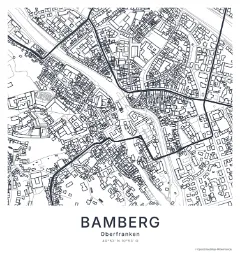
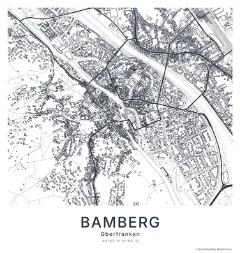
Start mit dem ganzen Ort, Detailstufen nach Maßstab und weiches Einblenden
- Suche zeigt die ganze Stadt bzw. das ganze Dorf (Ortsgrenze, Städte bis 10 km)
- Ganze Stadt mit groben, vereinfachten Kacheln; beim Hineinzoomen automatisch alle Häuser
- Neu geladene oder verschobene Kartenteile blenden weich ein statt aufzupoppen
- Stadtplan-Stil zeigt Gebäude zartgrau; Vorschaubilder erneuert

Claude-Session: https://claude.ai/code/session_01CZ9FFevJMjM4UX6hePPoaR

diff --git a/src/lib/editor/nachladen.js b/src/lib/editor/nachladen.js
@@ -6,7 +6,7 @@ import { app as appUntyped } from './app.js';
 import { fetchTiles } from '../karte/kacheln.js';
 import { buildDataTiles } from '../karte/daten.js';
 import { mercInv } from '../karte/raster.js';
-import { freiBereich, nachladbar, visRect } from './zustand.js';
+import { freiBereich, meterJeEinheit, nachladbar, visRect, zielStufe } from './zustand.js';
 import { FMAP, render } from './zeichnen.js';
 
 /** @type {any} */
@@ -44,6 +44,12 @@ async function lauf() {
 		h = v[3] - v[1];
 	const E = D.ext,
 		F = freiBereich(D);
+	// Passt die Detailstufe noch zum Maßstab? (hineingezoomt → feiner, herausgezoomt → gröber)
+	// (nur bei der gezeichneten Karte – Landkarten-Stile rechnet MapLibre selbst in jeder Stufe)
+	const S = app.S;
+	const gezeichnet = S && S.mode !== 'std' && (!S.motif || S.motif === 'karte');
+	const ziel = gezeichnet ? zielStufe(w * meterJeEinheit(D), D.tz || 14) : D.tz || 14;
+	if (ziel !== (D.tz || 14)) return stufeWechseln(D, ziel, v, w, h, F);
 	// fehlt im sichtbaren Bereich (mit kleinem Rand) etwas?
 	const rand = 0.15;
 	const fehlt = v[0] - w * rand < E.x0 - 1 || v[1] - h * rand < E.y0 - 1 || v[2] + w * rand > E.x1 + 1 || v[3] + h * rand > E.y1 + 1;
@@ -56,7 +62,7 @@ async function lauf() {
 	const [wl, n] = ll(r[0], r[1]),
 		[e, s] = ll(r[2], r[3]);
 	laeuft = true;
-	const zeigTimer = window.setTimeout(() => anzeige(true), 250);
+	const zeigTimer = window.setTimeout(() => anzeige(true), 200);
 	try {
 		const tiles = await fetchTiles({ w: wl, n, e, s }, { z: D.tz, ohne: new Set(D.tkeys) });
 		if (app.DATA !== D) return;
@@ -93,6 +99,52 @@ async function lauf() {
 		laeuft = false;
 	}
 	// weiter gezogen, während geladen wurde? → gleich noch einmal prüfen
+	nachladenPruefen();
+}
+
+/**
+ * Andere Detailstufe laden (wie Online-Karten beim Zoomen): ersetzt die Kartendaten durch Kacheln der
+ * passenden Stufe für die Ansicht plus Vorrat. Gleiche Projektion → der Ausschnitt bleibt exakt stehen.
+ * @param {any} D @param {number} z @param {number[]} v @param {number} w @param {number} h @param {any} F
+ */
+async function stufeWechseln(D, z, v, w, h, F) {
+	const r = [Math.max(F.x0, v[0] - w * 0.5), Math.max(F.y0, v[1] - h * 0.5), Math.min(F.x1, v[2] + w * 0.5), Math.min(F.y1, v[3] + h * 0.5)];
+	const P = D.proj;
+	const ll = (/** @type {number} */ x, /** @type {number} */ y) => mercInv(x / P.sc + P.x0, y / P.sc + P.y0);
+	const [wl, n] = ll(r[0], r[1]),
+		[e, s] = ll(r[2], r[3]);
+	laeuft = true;
+	const zeigTimer = window.setTimeout(() => anzeige(true), 200);
+	try {
+		const tiles = await fetchTiles({ w: wl, n, e, s }, { z });
+		await nichtBeimZiehen();
+		if (app.DATA !== D || !tiles.length) return;
+		const place = { name: D.place, region: D.region, center: D.center };
+		const nd = buildDataTiles(tiles, app.lastB, { w: wl, n, e, s }, place, { fid0: D.fidN, ti0: 0 });
+		if (!nd || !nd.feats.length) return;
+		D.feats = nd.feats;
+		D.tiles = nd.tiles;
+		D.tkeys = nd.tkeys;
+		D.tz = nd.tz;
+		D.fidN = nd.fidN;
+		if (nd.orte && nd.orte.length) D.orte = nd.orte;
+		D.ext = { x0: r[0], y0: r[1], x1: r[2], y1: r[3] };
+		// Dichte, Vorschaubild-Zähler, Höhenlinien gelten für die neue Stufe neu
+		D._dichte = null;
+		D.n0 = D.feats.length;
+		delete D._contours;
+		delete D._contoursP;
+		delete D._relief;
+		FMAP.clear();
+		app.einblenden = true;
+		render();
+	} catch (err) {
+		console.warn('Detailstufe wechseln fehlgeschlagen', err);
+	} finally {
+		clearTimeout(zeigTimer);
+		anzeige(false);
+		laeuft = false;
+	}
 	nachladenPruefen();
 }
 

diff --git a/src/lib/editor/zeichnen.js b/src/lib/editor/zeichnen.js
@@ -700,6 +700,7 @@ function vollNachZiehen() {
     fullTimer = window.setTimeout(vollNachZiehen, 120);
     return;
   }
+  app.einblenden = true;
   render();
 }
 /** Schriftbreite messen (Schriften sind im Dokument geladen) */
@@ -1161,12 +1162,18 @@ export function render() {
   const oldK = app.poster.querySelector('#karte');
   const oldHg = app.poster.querySelector('#treffer');
   // Schneller Weg nur bei gleichem Aufbau (eigene Kartenebene ja/nein)
-  if (oldK && M.node === before && oldK.contains(M.node) && oldK.dataset.ebene === (tmp.querySelector('#karte').dataset.ebene)) {
+  const gleich = !!oldK && oldK.dataset.ebene === (tmp.querySelector('#karte').dataset.ebene);
+  // Neu aufgebaute Karte nach Verschieben/Nachladen: über die alte legen und weich einblenden
+  // (wie Kacheln bei Online-Karten) – vorhandene Teile bleiben stehen, neue erscheinen sanft
+  const einblenden = app.einblenden;
+  app.einblenden = false;
+  const tausch = gleich && einblenden && M.node !== before && !!before && oldK.contains(before) && kartenEbene() && !matchMedia('(prefers-reduced-motion: reduce)').matches;
+  if (gleich && (M.node === before ? oldK.contains(M.node) : tausch)) {
     // Schneller Weg: Karte bleibt im Poster, nur alles drumherum wird ersetzt.
     // (Herausnehmen und Wiedereinsetzen würde den Browser zwingen, jedes Haus neu zu vermessen.)
     const newK = tmp.querySelector('#karte');
     let a = newK, b = oldK;
-    while (a && b && a.id !== 'kartenInhalt' && b !== M.node) {
+    while (a && b && a.id !== 'kartenInhalt' && b !== M.node && b !== before) {
       for (const at of [...a.attributes]) b.setAttribute(at.name, at.value);
       a = a.firstElementChild;
       b = b.firstElementChild;
@@ -1179,6 +1186,11 @@ export function render() {
     });
     oldK.insertAdjacentHTML('beforebegin', html(kids.slice(0, i)));
     (oldHg || oldK).insertAdjacentHTML('afterend', html(kids.slice(i + 1)));
+    if (M.node !== before) {
+      const alt = before;
+      alt.parentNode.appendChild(M.node);
+      M.node.animate([{ opacity: 0 }, { opacity: 1 }], { duration: 280, easing: 'cubic-bezier(.2,.8,.2,1)' }).finished.catch(() => {}).finally(() => alt.remove());
+    }
   } else {
     app.poster.innerHTML = tmp.innerHTML;
     const ph = app.poster.querySelector('#kartenInhalt');

diff --git a/src/lib/editor/zustand.js b/src/lib/editor/zustand.js
@@ -154,6 +154,24 @@ export function extZmin(v) {
   return Math.max(MW / (e.x1 - e.x0), MH / (e.y1 - e.y0)) * 1.0001;
 }
 /**
+ * Detailstufe der Kartendaten passend zum Maßstab (wie bei Online-Karten): Für eine ganze Stadt reichen
+ * die groben, schon vereinfachten Kacheln (Straßen, Wasser – ohne Einzelhäuser); beim Hineinzoomen
+ * kommen feinere Stufen mit allen Häusern und Wegen. Grenzen = sichtbare Breite in Metern.
+ */
+export const STUFE_GRENZE = { 13: 3200, 12: 7000 };
+/** Passende Kachel-Zoomstufe (12 grob … 14 fein) für eine sichtbare Breite in Metern */
+export function stufeFuer(m) {
+  return m > STUFE_GRENZE[12] ? 12 : m > STUFE_GRENZE[13] ? 13 : 14;
+}
+/** Wie stufeFuer, aber mit Spielraum um die Grenzen, damit nicht ständig hin und her gewechselt wird */
+export function zielStufe(m, tz) {
+  const ziel = stufeFuer(m);
+  if (ziel > tz) return stufeFuer(m / 0.85) > tz ? stufeFuer(m / 0.85) : tz;
+  if (ziel < tz) return stufeFuer(m / 1.15) < tz ? stufeFuer(m / 1.15) : tz;
+  return tz;
+}
+
+/**
  * Wie viele Kartenelemente dürfen höchstens gleichzeitig sichtbar sein? Darüber wird das Poster am
  * Bildschirm zäh (jede Linie ist ein eigenes Element) – und gedruckt ist es ohnehin nur noch Gewimmel.
  */
@@ -179,7 +197,12 @@ export function vLimits(v) {
     // Herauszoomen über die geladene Gegend hinaus: bis 3 × Posterbreite (max. 6 km) – lädt nach.
     // In dichten Städten weniger weit (höchstens ~17 000 Elemente sichtbar), nie aber enger als die geladene Gegend.
     const f = freiBereich();
-    const maxW = Math.max(MW / zmin, Math.min(MW * 3, 6000 / meterJeEinheit(), dichteBreite(v)));
+    const m = meterJeEinheit();
+    // Herauszoomen bis 12 km – in dichten Städten weniger. Weit genug aber immer, damit die nächst
+    // gröbere Detailstufe greifen kann (die hat dann wieder deutlich weniger Elemente).
+    const tz = app.DATA.tz || 14;
+    const stufeW = tz > 12 ? (STUFE_GRENZE[tz === 14 ? 13 : 12] * 1.3) / m : 0;
+    const maxW = Math.max(MW / zmin, Math.min(12000 / m, Math.max(dichteBreite(v), stufeW)));
     zmin = Math.max(MW / maxW, MW / (f.x1 - f.x0), MH / (f.y1 - f.y0)) * 1.0001;
   }
   return {

diff --git a/src/lib/editor/laden.js b/src/lib/editor/laden.js
@@ -11,7 +11,7 @@ import { FMAP, alsBild, drawSel, render } from './zeichnen.js';
 import { PRESETS } from '../themen/vorlagen.js';
 import { buildData, buildDataTiles } from '../karte/daten.js';
 import { closePicker, frameBounds, meters } from '../karte/ortswahl.js';
-import { defView, newState, updUndo } from './zustand.js';
+import { defView, newState, stufeFuer, updUndo } from './zustand.js';
 import { expand, fetchOSM } from '../karte/overpass.js';
 import { fetchTiles } from '../karte/kacheln.js';
 import { panel } from './seitenleiste.js';
@@ -90,7 +90,8 @@ export async function tileData(b, place) {
   const mw = meters(b).w;
   try {
     const big = expand(b, mw < 1500 ? 0.5 : mw < 3000 ? 0.35 : 0.2);
-    const tiles = await fetchTiles(big);
+    // Detailstufe passend zur Größe: ganze Stadt = grobe Kacheln (nur Straßen & Wasser), Ortskern = alle Häuser
+    const tiles = await fetchTiles(big, { z: stufeFuer(mw) });
     const data = buildDataTiles(tiles, b, big, place);
     return data.feats.length ? data : null;
   } catch (e) {
@@ -114,7 +115,7 @@ function loadErr(t) {
 export async function loadBounds(b, opt = {}) {
   if (app.genBusy) return false;
   const m = meters(b);
-  const maxW = opt.maxW || 6000;
+  const maxW = opt.maxW || 12000;
   if (!(m.w > 50) || m.w > maxW) {
     loadErr(`Der Ausschnitt ist zu groß (über ${Math.round(maxW / 1000)} km breit). Bitte näher heranzoomen.`);
     return false;

diff --git a/src/lib/themen/vorlagen.js b/src/lib/themen/vorlagen.js
@@ -6,19 +6,20 @@ export const NAVY = '#262c3a';
 export const PRESETS = {
   // Klarer Stadtplan nach dem Vorbild klassischer Kartenposter (z. B. Cartida): weißes Papier,
   // schwarze Straßen mit deutlicher Rangordnung, hellblaues Wasser, Grün nur angedeutet,
-  // Gebäude zunächst aus (unter Ort › Kartendetails zuschaltbar, dann zartgrau).
+  // Gebäude zartgrau und erst beim Hineinzoomen bzw. bei kleinen Orten sichtbar (Detailstufe).
   stadtplan: {
     name: 'Stadtplan',
     desc: 'Schwarze Straßen, hellblaues Wasser, viel Weiß – der klare Klassiker.',
     chip: 'linear-gradient(90deg,#fff 0 60%,#a9c4e2 60% 80%,#111 80%)',
     cls: {
-      haus: { s: '#c9cbcf', f: '#eceef0', w: 0.5, h: true },
+      // Gebäude zartgrau – bei der ganzen Stadt (grobe Daten) gibt es sie nicht, sie kommen beim Hineinzoomen
+      haus: { s: '#9fa4ab', f: '#dde0e4', w: 0.6 },
       haupt: { s: '#111111', f: 'none', w: 4.4 },
       neben: { s: '#1d1d1f', f: 'none', w: 1.5 },
       weg: { s: '#5a5d63', f: 'none', w: 0.55 },
       wasser: { s: '#a9c4e2', f: '#a9c4e2', w: 1.4 },
       bahn: { s: '#a4a7ad', f: 'none', w: 0.6 },
-      gruen: { s: 'none', f: '#f5f6f3', w: 0 }
+      gruen: { s: 'none', f: '#f7f8f5', w: 0 }
     },
     bg: '#ffffff',
     frame: { color: '#111111', w: 0, r: 0, pad: 34 },

diff --git a/src/lib/karte/ortswahl-start.js b/src/lib/karte/ortswahl-start.js
@@ -27,13 +27,14 @@ export function regionOf(p) {
 export function placeBounds(p, lon, lat, a, breite) {
   const small = /^(village|hamlet|suburb|neighbourhood|quarter|locality|isolated_dwelling|farm|house|street)$/.test(p.osm_value || p.type || '');
   const tiny = /^(hamlet|isolated_dwelling|farm|house|street|neighbourhood)$/.test(p.osm_value || p.type || '');
-  let wm = tiny ? 750 : 1100;
+  let wm = tiny ? 750 : small ? 1300 : 2500;
   const cos = Math.cos(lat * Math.PI / 180);
-  if (p.extent && !small) {
+  if (p.extent && !tiny) {
     const e = p.extent; // [west, nord, ost, süd]
     const ew = (e[2] - e[0]) * 111320 * cos, eh = (e[1] - e[3]) * 110540;
-    // Ortskern: etwas enger als die Gemeindegrenze
-    wm = Math.max(900, Math.min(2000, Math.max(ew, eh / a) * 0.6));
+    // Der ganze Ort aufs Poster (wie bei klassischen Stadtplan-Postern): Ortsgrenze mit etwas Luft,
+    // Dörfer höchstens 1,8 km, Großstädte höchstens 10 km (sonst nur noch Gewimmel)
+    wm = Math.max(small ? 900 : 1500, Math.min(small ? 1800 : 10000, Math.max(ew, eh / a) * (small ? 1.08 : 0.9)));
   }
   if (breite > 0) wm = breite;
   const [mx, my] = merc(lon, lat);

diff --git a/src/lib/karte/kacheln.js b/src/lib/karte/kacheln.js
@@ -170,9 +170,10 @@ export function lat2t(lat, z) {
 export async function fetchTiles(big, opt = {}) {
   const T = await tileTemplate();
   // Große Gebiete (z. B. lange Routen): gröbere Kachelstufe, sonst würden es hunderte Kacheln
-  let z = opt.z || T.maxz;
+  let z = Math.min(opt.z || T.maxz, T.maxz);
   const count = zz => (lon2t(big.e, zz) - lon2t(big.w, zz) + 1) * (lat2t(big.s, zz) - lat2t(big.n, zz) + 1);
-  if (!opt.z) while (z > 11 && count(z) > 100) z--;
+  // Beim Nachladen (opt.ohne) bleibt die Stufe fest – sie muss zu den schon geladenen Kacheln passen
+  if (!opt.ohne) while (z > 11 && count(z) > 100) z--;
   const x0 = lon2t(big.w, z),
     x1 = lon2t(big.e, z),
     y0 = lat2t(big.n, z),

diff --git a/CLAUDE.md b/CLAUDE.md
@@ -121,6 +121,7 @@ Aufbau (`src/lib`), aus `prototyp/src/script.js` maschinell (Babel) zerlegt – 
 - **Feste Vorschaubilder (Runde „Standard-Bilder statt Live-Vorschau“):** Stile und Designs zeigen **fertige Beispielbilder** statt live gezeichneter Bildchen: `static/vorschau/stil/<id>.webp` (quadratischer Kartenausschnitt, 240 px) und `static/vorschau/design/<id>.webp` (ganzes Poster im Stil „Umriss“, durchsichtige Ecken), Beispielort Bamberg. Eingebunden über `vorschauBild(art, id)` in `assistent.js` (`asset()` aus `$app/paths`, `loading="lazy"`), auch in den erweiterten Einstellungen. Der Service Worker lädt sie **nicht vorab**, merkt sie aber beim ersten Anzeigen. Entfernt: `renderThumbs()`/`leinwandBild()` (laden.js), `renderDesignThumbs()` + gemeinsames Kartenbild `KARTENBILD`/`kartenBildMalen()` – die Absätze dazu weiter oben sind damit Geschichte. **Neuer Stil/neues Design → Bild erzeugen:** `npm run build && npm run preview`, dann `node tests/vorschaubilder.mjs` (alle, braucht Internet; `NUR=stil|design`, `ID=<schlüssel>` für eines, `ORT=` anderer Beispielort). Der Rauchtest meldet fehlende Bilder. Live mit dem eigenen Ort gezeichnet werden nur noch die Favoriten. **„Vorschläge für deinen Ort“ sind vorerst entfernt** (Wunsch des Inhabers; früher `#wzVorschlaege`/`vorschlaegeZeichnen()` in `galerie.js`, 6 Looks live mit dem eigenen Ort – wiederherstellbar aus Commit f13bcd9). Fertige Looks gibt es weiter über „Beispiele“ im Stil-Bereich (`#bspOverlay`); der Rundgang zeigt bei Stil auf die Gruppen-Chips.
 - **Hinweis „Neue Version verfügbar“** (`src/lib/update.js`, `updateHinweis()` in `onMount` von `+page.svelte`): Der Service Worker liefert die App aus dem Speicher – nach einem Update sah man sonst noch den alten Stand, bis man neu lädt. Wechselt der Service Worker (nicht beim ersten Besuch), erscheint oben eine Navy-Leiste mit „Neu laden“; beim Zurückkehren zur Seite und alle 30 Min. wird nach Updates geschaut.
 - **Stadtplan als Standard (nach Vorbild Cartida-Standardkarte):** Stil `stadtplan` (`vorlagen.js`: weißes Papier, schwarze Straßen mit Rangordnung haupt 4,4 / neben 1,5 / weg 0,55, Wasser hellblau `#a9c4e2` als Fläche, Grün kaum sichtbar, Bahn hellgrau, Gebäude aus – über Ort › Kartendetails zartgrau zuschaltbar) und Design `stadtplan` (`designs.js`: ohne Rahmen, Titel Inter Medium 66, Untertitel klein in Inter, Koordinaten in Kurzform `koordKurz` → `coordText(true)` „53°33′ N   10°00′ O“, grau). **Neue Poster starten damit** (`newState('stadtplan')` in `laden.js`; `newState` wählt ohne `keep` beim Stil `stadtplan` das gleichnamige Design, sonst „Poster“). Jeweils erster Eintrag in den Gruppen „Hell & klassisch“/„Schlicht“. Backup davor: `backup/vor-stadtplan`.
+- **Ganzer Ort + Detailstufen (Runde „wie Cartida“):** Analyse Cartida: OpenLayers mit **fertig gerenderten Bildkacheln vom eigenen Server** (PNG, doppelte Auflösung), ganze Stadt = Zoomstufe 12 (≈10 Kacheln, serverseitig vereinfacht), beim Ziehen bleiben neue Bereiche kurz weiß und jede Kachel blendet ein. Bei uns umgesetzt: **Start mit dem ganzen Ort** (`placeBounds()` in `ortswahl-start.js`: Ortsgrenze ×0,9, Städte 1,5–10 km, Dörfer bis 1,8 km; `loadBounds` bis 12 km). **Detailstufe nach Maßstab** (`stufeFuer()`/`zielStufe()`/`STUFE_GRENZE` in `zustand.js`: > 7 km sichtbar → Kacheln z12 = Straßen/Wasser ohne Häuser, 3,2–7 km → z13, darunter z14 mit allen Häusern; 15 % Spielraum gegen Hin-und-her). Beim Laden wählt `tileData()` die Stufe, beim Zoomen tauscht `stufeWechseln()` in `nachladen.js` die Daten (gleiche Projektion über `app.lastB`, Ansicht bleibt stehen; nur gezeichnete Karte, nicht Landkarten-Stile/Textmotive). Herauszoomen bis 12 km (`vLimits`: Dichte-Grenze, aber immer weit genug für die nächst gröbere Stufe). **Weiches Einblenden**: nach Verschieben/Nachladen (`app.einblenden`) legt `render()` die neu gebaute Karte über die alte und blendet sie in 0,28 s ein, dann wird die alte entfernt (kurz doppelte IDs!). Stadtplan-Stil zeigt Gebäude jetzt zartgrau (bei z12 gibt es keine → erscheinen automatisch beim Hineinzoomen bzw. bei Dörfern). Backup davor: `backup/vor-detailstufen`.
 - `docs/vergleich-cartida.md` – Wettbewerbsvergleich und Ideenliste (Pins, Datum, Sternenhimmel, Raumszenen, Shop).
 - `karte/` – `ortswahl`, `ortswahl-start`, `suche` (Photon), `kacheln` (MVT-Decoder), `overpass`, `daten` (buildData/buildDataTiles), `raster` (Standard-Stile via MapLibre)
 - `themen/` – `vorlagen` (PRESETS), `standard` (BASES)
